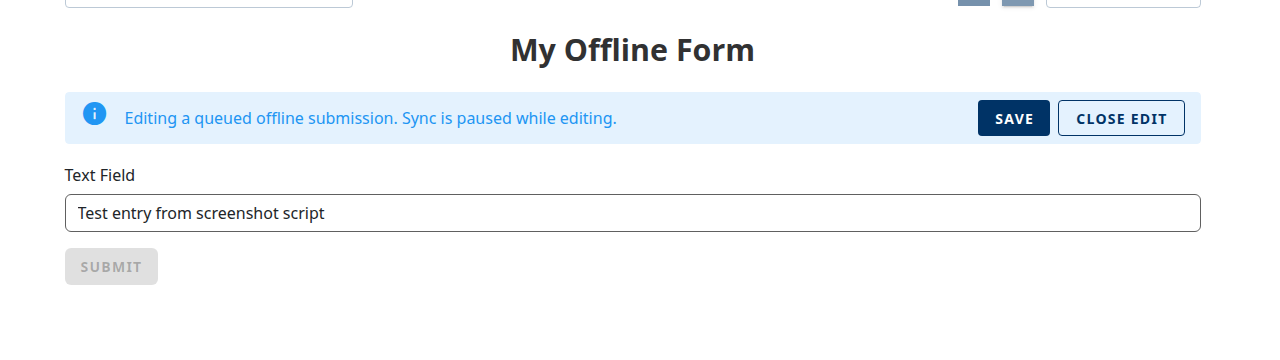
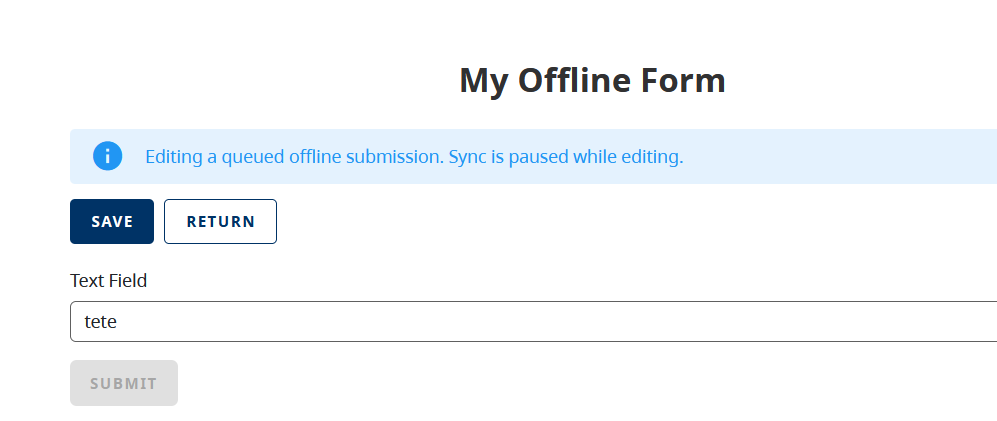
CCP-5095: Update offline submissions

diff --git a/docs/Capabilities/Functionalities/Offline-Submissions.md b/docs/Capabilities/Functionalities/Offline-Submissions.md
@@ -60,18 +60,21 @@ If your form relies on any of the components above, plan your form so those fiel
 
 ## What submitters see while offline
 
-Once you enable the feature and the submitter loads the form, CHEFS adds a persistent connection status chip to the top of the page.
+Once you enable the feature and the submitter loads the form, CHEFS adds offline controls to the top of the page:
 
-- When online, the chip shows a green cloud icon and the label **ONLINE**.
-- When offline, the chip changes to a warning icon with the label **Offline**.
-- If any submissions are waiting on the device, a red count badge appears on the corner of the chip.
+- When the device goes offline, a white cloud icon appears in the header.
+- When submissions are waiting on the device, an outlined **OFFLINE SUBMISSIONS** button appears beside it with a red count badge. Clicking the button opens the saved list.
+- On narrow screens the button collapses to an icon-only button (with the count badge) and the standalone icon drops out, so only one control is shown.
 
-![ONLINE chip in the CHEFS header](images/offline-chip-online.png)
-![Offline chip in the CHEFS header with a red count badge showing queued submissions](images/offline-chip-offline.png)
+![Header offline controls: standalone cloud icon and OFFLINE SUBMISSIONS button with a red count badge](images/offline-chip-offline.png)
+
+CHEFS also raises a persistent notification banner while the device is offline on an offline-capable page, titled **"You are now offline"** with the message *"Form Submissions will be saved locally and sent to the server when you come back online."* The banner clears automatically when the device reconnects or the submitter navigates away.
+
+![Persistent "You are now offline" notification banner](images/offline-banner.png)
 
 While offline, some form controls change:
 
-- **View my Drafts / Submissions** and the multi-draft upload switch grey out; those pages need the server.
+- **View my Drafts / Submissions** is hidden and the multi-draft upload switch is disabled; those actions need the server.
 - **Print options**: Browser Print stays available. **Template Print** (CDOGS-rendered downloads) is disabled offline; it needs the server to render the template.
 - **Save as Draft** stays available; drafts are also saved on the device and sent later.
 - **Submit** works, but instead of posting to the server it opens the confirmation dialog below.
@@ -91,7 +94,7 @@ After saving, a toast confirms the entry was stored on the device and the form r
 
 ## Managing saved submissions
 
-Clicking the status chip opens the **Saved Submissions** list.
+Clicking the **OFFLINE SUBMISSIONS** button opens the **Saved Submissions** list.
 
 Each row shows:
 
@@ -114,7 +117,7 @@ Click the pencil icon on any row. The form reopens with the saved data pre-fille
 
 - Change the values you need to correct.
 - Click **Save** in the banner (or run through the submit flow) to overwrite the entry in place. The entry keeps its original save time and its place in the queue.
-- Click **Close Edit** to leave without changing anything.
+- Click **Return** to leave without changing anything.
 
 Sync is paused while an entry is being edited, so a queued send cannot overwrite your changes mid-edit.
 
